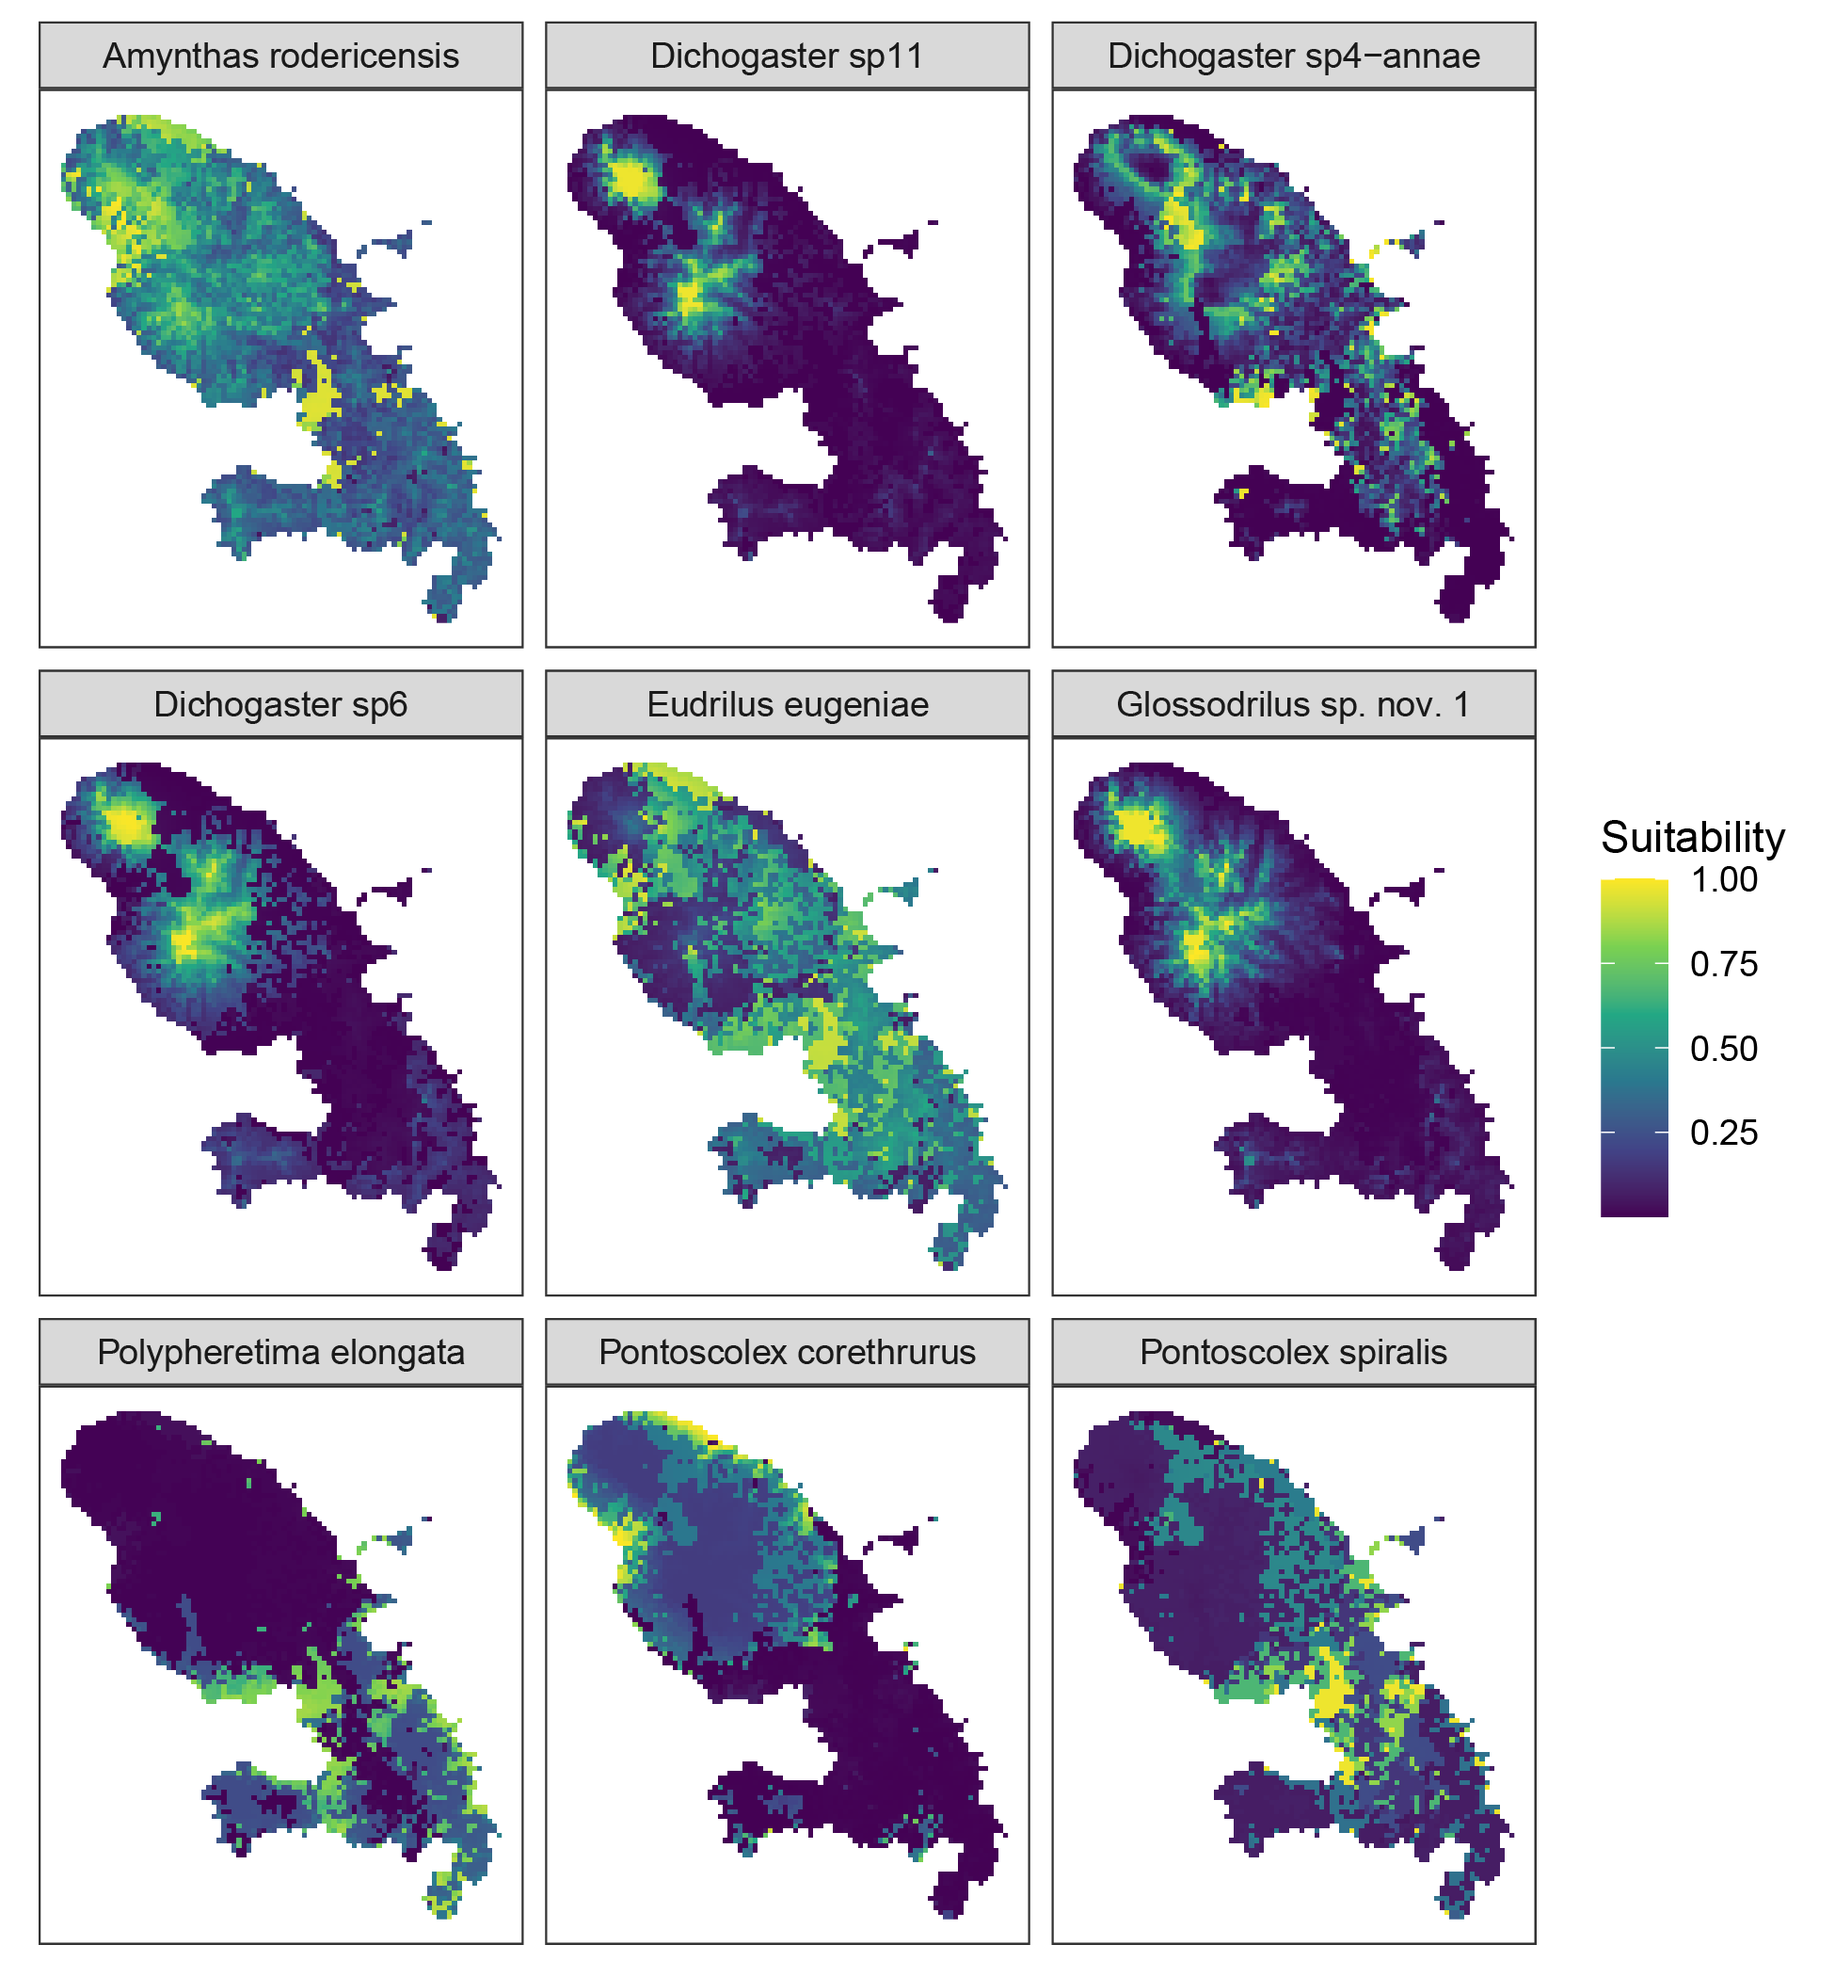
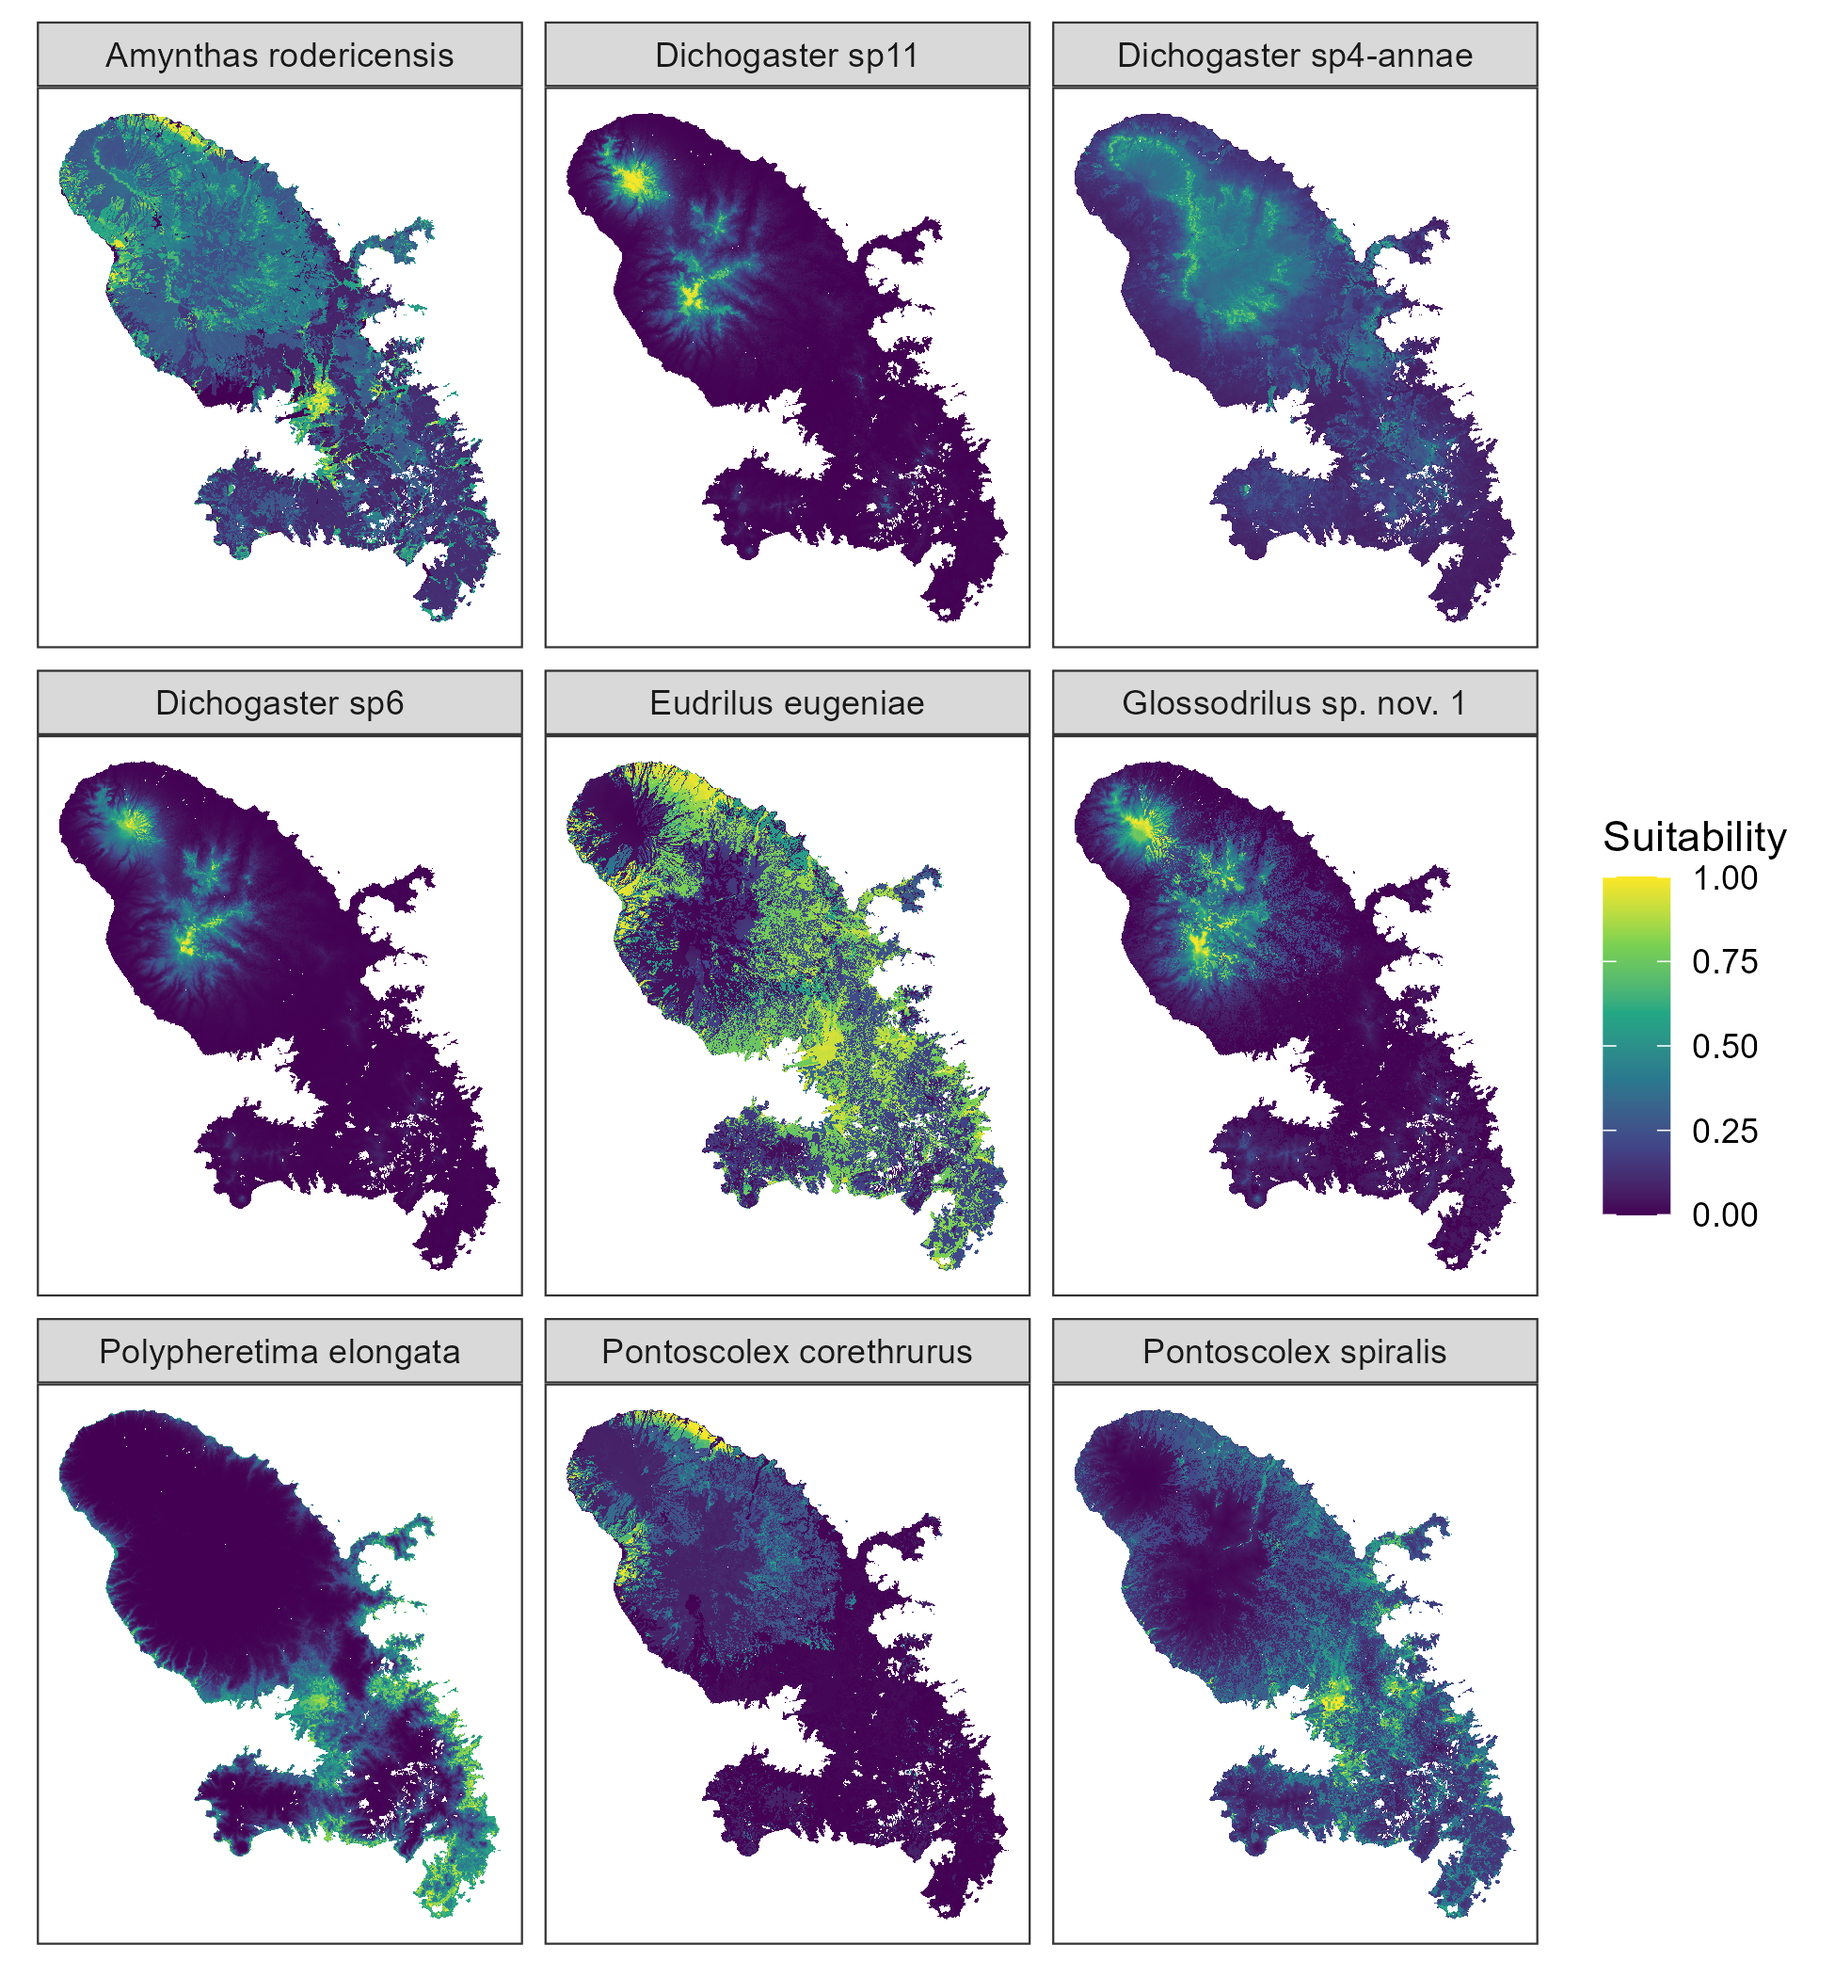
updates with new ensemble models (some failed)

diff --git a/README.md b/README.md
@@ -2,7 +2,7 @@
 
 Preliminary R code for generating ecological niche models / species distribution models of earthworms in Martinique, and analyzing the overlap between native and introduced species.
 
-The models are based on ensemble projections of four different fine-tuned algorithms: MaxEnt, but also random forest, boosted regression trees and a simple GLM.
+The models are based on ensemble projections of four different fine-tuned algorithms: MaxEnt, but also random forest, boosted regression trees (* this one doesn't work for now; models are based on 3 methods*) and a simple GLM.
 
 
 ### Maps of environmental suitability
